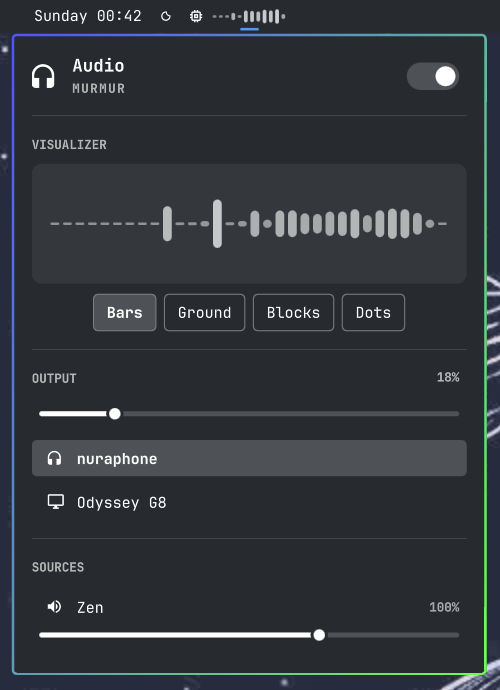
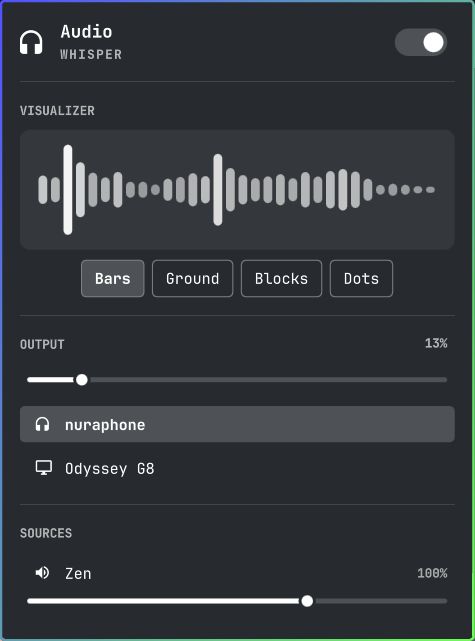
Crop preview to the panel; document executed commands and config writes

Changed region(s): [[0.0, 0.0, 1.0, 1.0], [0.1474, 0.4056, 0.8253, 0.4992], [0.0589, 0.7176, 0.3537, 0.7488]]

diff --git a/README.md b/README.md
@@ -136,6 +136,25 @@ If you rename the entry point, restart the shell rather than rescanning —
 the shell keeps resolving the old file and reports the rename as
 "File name case mismatch", which is neither a case nor a filesystem problem.
 
+## What it runs, and what it writes
+
+Plugins run unsandboxed inside the shell, so here is everything this one
+executes and every file it touches.
+
+| Command | When | Why |
+|---|---|---|
+| `bash -c "exec cava -p …"` | While the widget is mounted | The visualizer. One process for the whole bar; a second one only while the panel is open. The cava config is passed through a process substitution, so no config file is written |
+| `omarchy bar set <id> style <value>` | Only when you click the style picker | Persists your choice |
+| `omarchy-audio-output-set-default` | Only when you click an output device | Inherited from `omarchy.audio` |
+| `omarchy-audio-input-set-default` | Only when you click an input device | Inherited from `omarchy.audio` |
+| `omarchy-audio-sink-availability` | Every 5s while the panel is open | Read-only |
+| `omarchy-audio-output-sink` | Every 15s | Read-only |
+
+The only file it ever writes is its **own widget entry** in
+`~/.config/omarchy/shell.json` — the `style` key, and only on an explicit
+click. It never writes to any other part of your config, never asks for root,
+and never contacts the network.
+
 ## Credits
 
 The audio panel — volume slider, output picker, per-app mixer, and the
